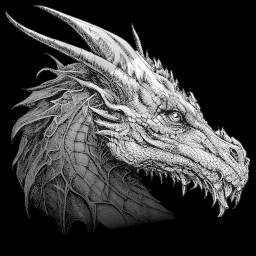
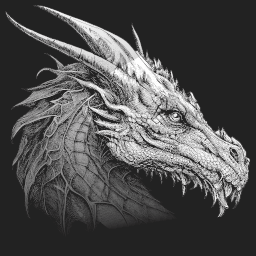
Lighten BG in night mode

diff --git a/src/styles/modules/_themes.scss b/src/styles/modules/_themes.scss
@@ -1,6 +1,7 @@
 $themes: (
   "light": (
     "bg": #fff,
+    "bg-subdued": #eee,
     "fg": #333,
     "fg-subdued": #555,
     "links": (
@@ -11,7 +12,8 @@ $themes: (
     )
   ),
   "dark": (
-    "bg": #000,
+    "bg": #222,
+    "bg-subdued": #444,
     "fg": #ccc,
     "fg-subdued": #aaa,
     "links": (
